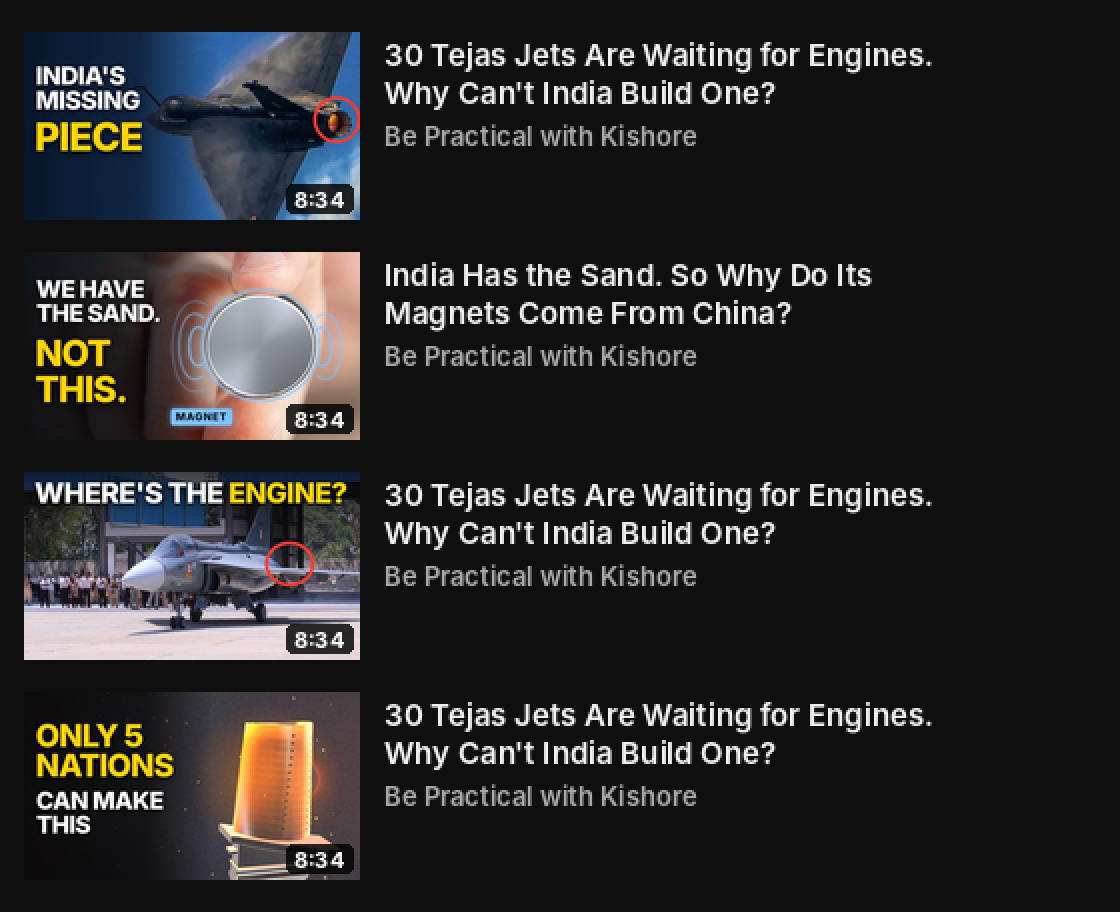
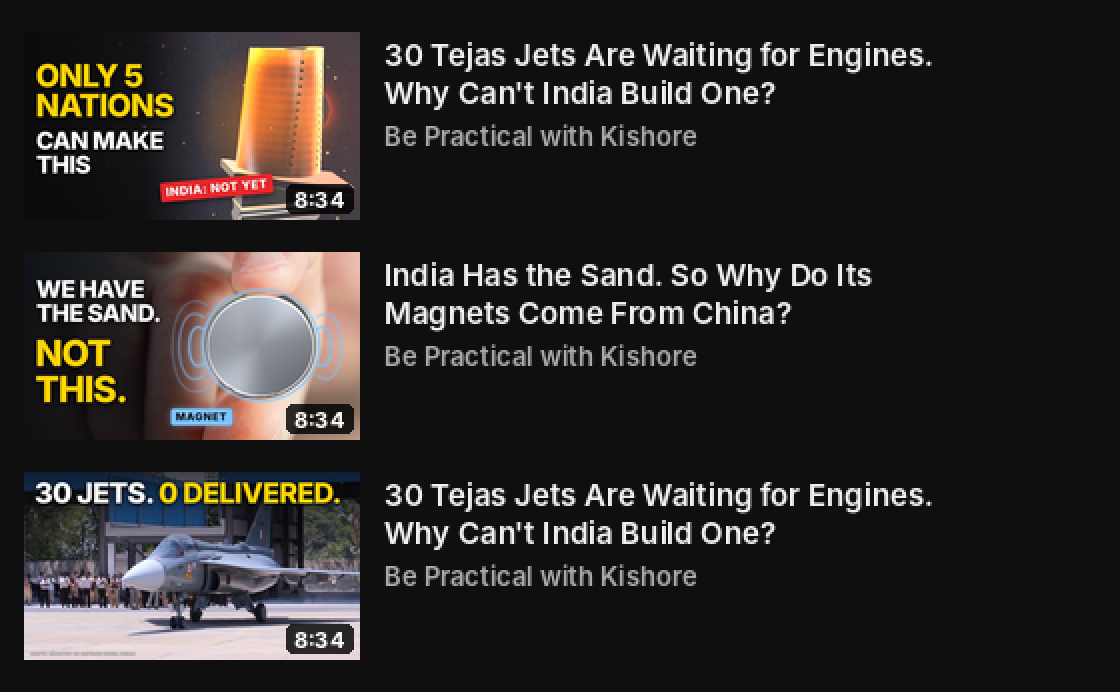
jet-engine-bet: thumbnails after the independent click panel (C main with stamp, B honest challenger)
Claude-Session: https://claude.ai/code/session_01VymmbLaW8s1WsSnVp62Ywb

diff --git a/projects/jet-engine-bet/youtube/thumb/thumb_c.html b/projects/jet-engine-bet/youtube/thumb/thumb_c.html
@@ -1,13 +1,14 @@
 <!doctype html><html><head><meta charset="utf-8"><style>
-/* C: the hero turbine blade (our render, ILLUSTRATION in the film) glowing hot. "Only 5 nations" adds the stake the title
+/* C (main, click panel 2026-10-23: bigger blade crossing into the text side, stamp ties it to India): the hero turbine blade (our render, ILLUSTRATION in the film) glowing hot. "Only 5 nations" adds the stake the title
    doesn't say; the viewer asks what this small part is. Warm and bright on the right, text on a dark left panel. */
 @font-face{font-family:I;font-weight:800;src:url(inter-latin-800-normal.woff2)}
 *{margin:0;padding:0;box-sizing:border-box}body{width:1280px;height:720px;overflow:hidden;font-family:I,sans-serif;font-weight:800;position:relative;background:#140c08}
-.bg{position:absolute;left:-120px;top:-110px;width:1600px;height:900px;background:url(blade.png) center/cover;filter:brightness(1.55) saturate(1.3) contrast(1.08)}
+.bg{position:absolute;left:-200px;top:-190px;width:1760px;height:990px;background:url(blade.png) center/cover;filter:brightness(1.55) saturate(1.3) contrast(1.08)}
 .glow{position:absolute;left:600px;top:20px;width:640px;height:640px;background:radial-gradient(circle,rgba(255,140,40,.45),rgba(255,90,20,0) 65%)}
 .shade{position:absolute;inset:0;background:linear-gradient(90deg,rgba(10,8,8,.95) 0,rgba(10,8,8,.8) 36%,rgba(10,8,8,0) 56%)}
 .t1{position:absolute;left:44px;top:110px;font-size:120px;line-height:.95;letter-spacing:-4px;color:#ffd400;text-shadow:0 8px 30px rgba(0,0,0,.9)}
 .t2{position:absolute;left:46px;top:370px;font-size:92px;line-height:1;letter-spacing:-3px;color:#fff;text-shadow:0 6px 24px rgba(0,0,0,.85)}
+.stamp{position:absolute;left:520px;top:560px;font-size:46px;letter-spacing:2px;color:#fff;background:#e5262b;padding:8px 20px 10px;border-radius:8px;transform:rotate(-5deg);box-shadow:0 6px 24px rgba(0,0,0,.6)}
 </style></head><body><div class="bg"></div><div class="glow"></div><div class="shade"></div>
-<div class="t1">ONLY 5<br>NATIONS</div><div class="t2">CAN MAKE<br>THIS</div>
+ <div class="stamp">INDIA: NOT YET</div><div class="t1">ONLY 5<br>NATIONS</div><div class="t2">CAN MAKE<br>THIS</div>
 </body></html>

diff --git a/projects/jet-engine-bet/youtube/thumb/thumb_b.html b/projects/jet-engine-bet/youtube/thumb/thumb_b.html
@@ -1,5 +1,5 @@
 <!doctype html><html><head><meta charset="utf-8"><style>
-/* B: the real first Tejas Mk1A rolled out at HAL (MoD, GODL-India), its tail circled: "Where's the engine?" Honest: the film
+/* B (challenger, click panel 2026-10-23: honest '0 delivered', no circle on a complete jet): the real first Tejas Mk1A rolled out at HAL (MoD, GODL-India), its tail circled: "Where's the engine?" Honest: the film
    opens on ~30 finished jets waiting for engines (14 of 99 delivered). Bright daylight photo. */
 @font-face{font-family:I;font-weight:800;src:url(inter-latin-800-normal.woff2)}
 *{margin:0;padding:0;box-sizing:border-box}body{width:1280px;height:720px;overflow:hidden;font-family:I,sans-serif;font-weight:800;position:relative;background:#ccc}
@@ -8,7 +8,8 @@
 .t1{position:absolute;left:40px;top:26px;font-size:108px;line-height:1;letter-spacing:-3px;color:#fff;text-shadow:0 6px 24px rgba(0,0,0,.85)}
 .t1 b{color:#ffd400}
 svg{position:absolute;inset:0}
+.cr{position:absolute;left:24px;bottom:16px;font-size:16px;letter-spacing:1px;color:rgba(255,255,255,.8);text-shadow:0 1px 4px #000}
 </style></head><body><div class="bg"></div><div class="shade"></div>
-<svg width="1280" height="720"><ellipse cx="1012" cy="352" rx="88" ry="80" fill="none" stroke="#ff3b30" stroke-width="12"/></svg>
-<div class="t1">WHERE'S THE <b>ENGINE?</b></div>
+
+<div class="t1">30 JETS. <b>0 DELIVERED.</b></div><div class="cr">PHOTO: MINISTRY OF DEFENCE (GODL-INDIA)</div>
 </body></html>

diff --git a/projects/jet-engine-bet/youtube/description.md b/projects/jet-engine-bet/youtube/description.md
@@ -36,8 +36,12 @@ Then it tells the real story of Kaveri, what India has built since, and the deci
 ```
 
 ## Thumbnail
-Concepts in `thumbnail_a.jpg`, `thumbnail_b.jpg`, `thumbnail_c.jpg` (built from `thumb/thumb_*.html`, PLAYBOOK §13b):
-- **A, "INDIA'S MISSING PIECE"**: a real Tejas (MoD, GODL-India) with its engine glow circled. The series name, one object, bright sky.
-- **B, "WHERE'S THE ENGINE?"**: the real first Mk1A rolled out at HAL, its tail circled. The film opens on this exact question.
-- **C, "ONLY 5 NATIONS CAN MAKE THIS"**: the hero turbine blade glowing hot (our render).
-The TurboSquid CG model is never used in a thumbnail (editorial licence).
+- **Main: `thumbnail_c.jpg`**, "ONLY 5 NATIONS CAN MAKE THIS" + red stamp "INDIA: NOT YET" on the hero turbine blade (our render).
+  Curiosity: what is this glowing part, and why can't India make it yet? Matches the film's line "Only four or five countries
+  know how to make that blade. India has been chasing that secret for forty years."
+- **A/B challenger (Test & Compare): `thumbnail_b.jpg`**, "30 JETS. 0 DELIVERED." on the real first Tejas Mk1A rolled out at
+  HAL (MoD, GODL-India, credited in the corner). The film's lede in the first 25 s.
+- Dropped: `thumbnail_a.jpg` ("INDIA'S MISSING PIECE" over a lit afterburner reads as a contradiction).
+- Independent click panel (session 2026-10-23, five Indian phone viewers): ranked C > B > A; asked for the stamp on C, an
+  honest text on B (the jet in the photo is complete, so no circle and no "no engines"), and to drop A.
+- Phone-feed check: `qa_feed/feed_small.png`. The TurboSquid CG model is never used in a thumbnail (editorial licence).
